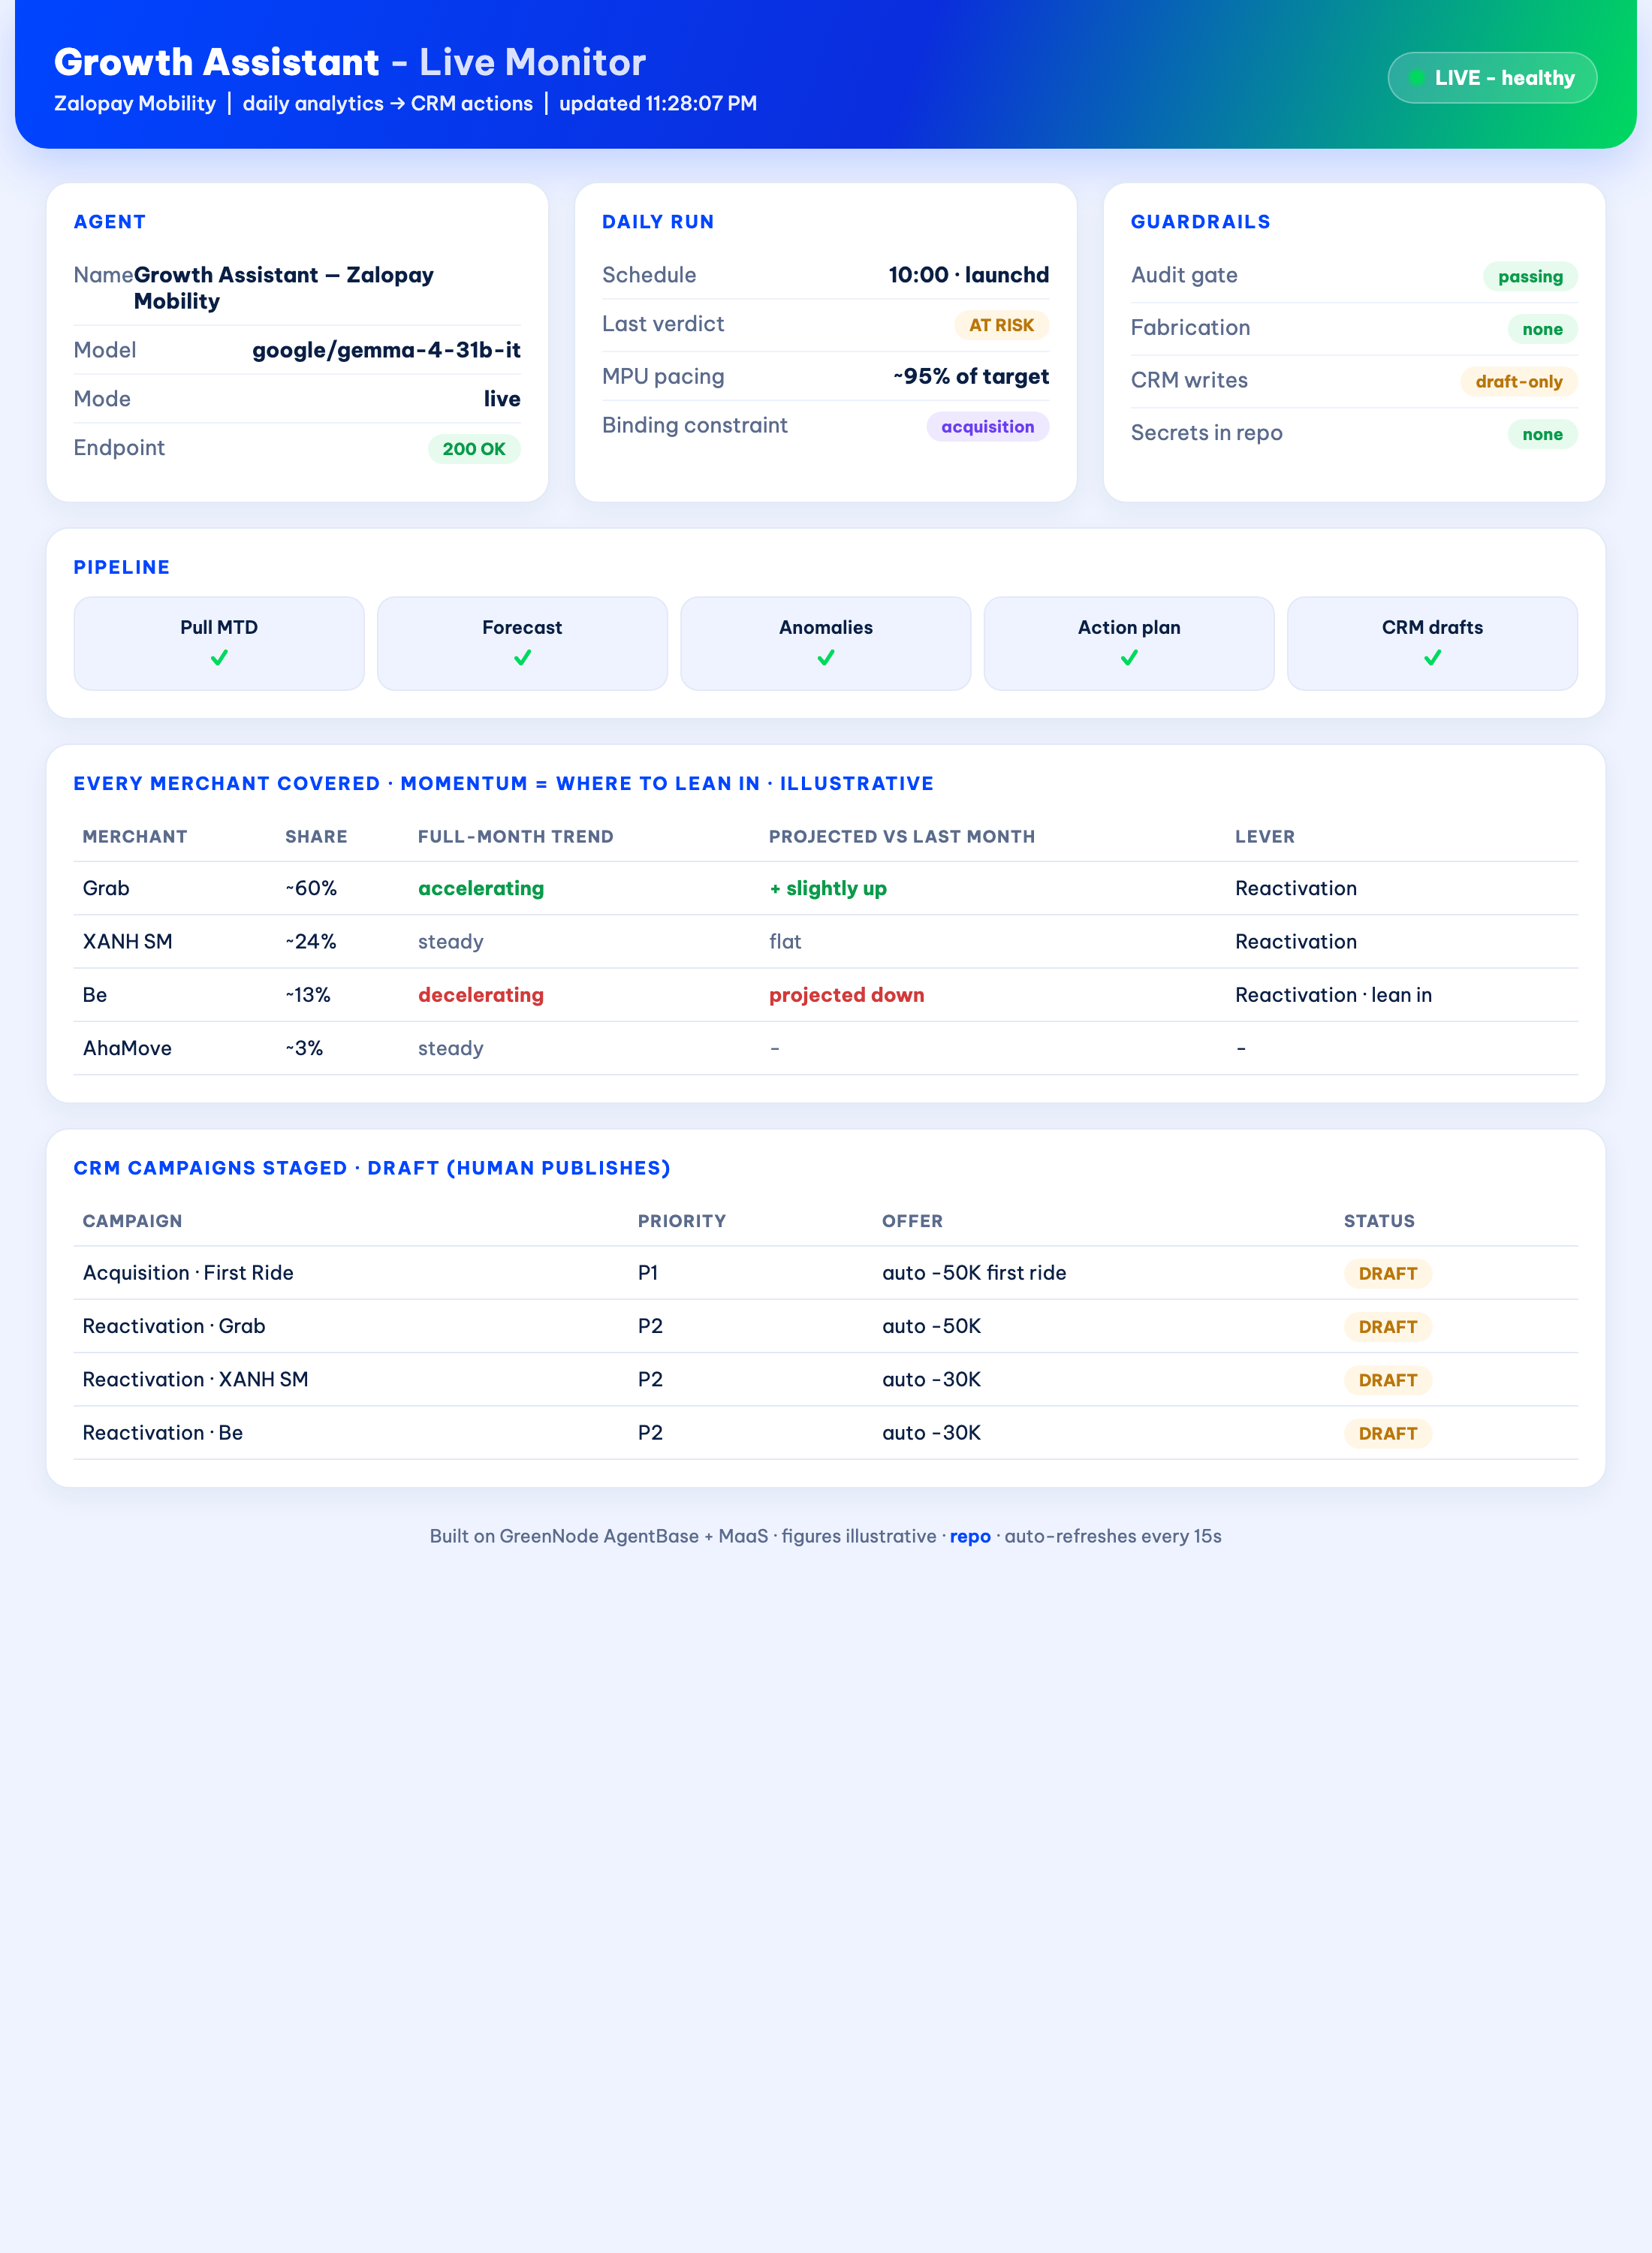
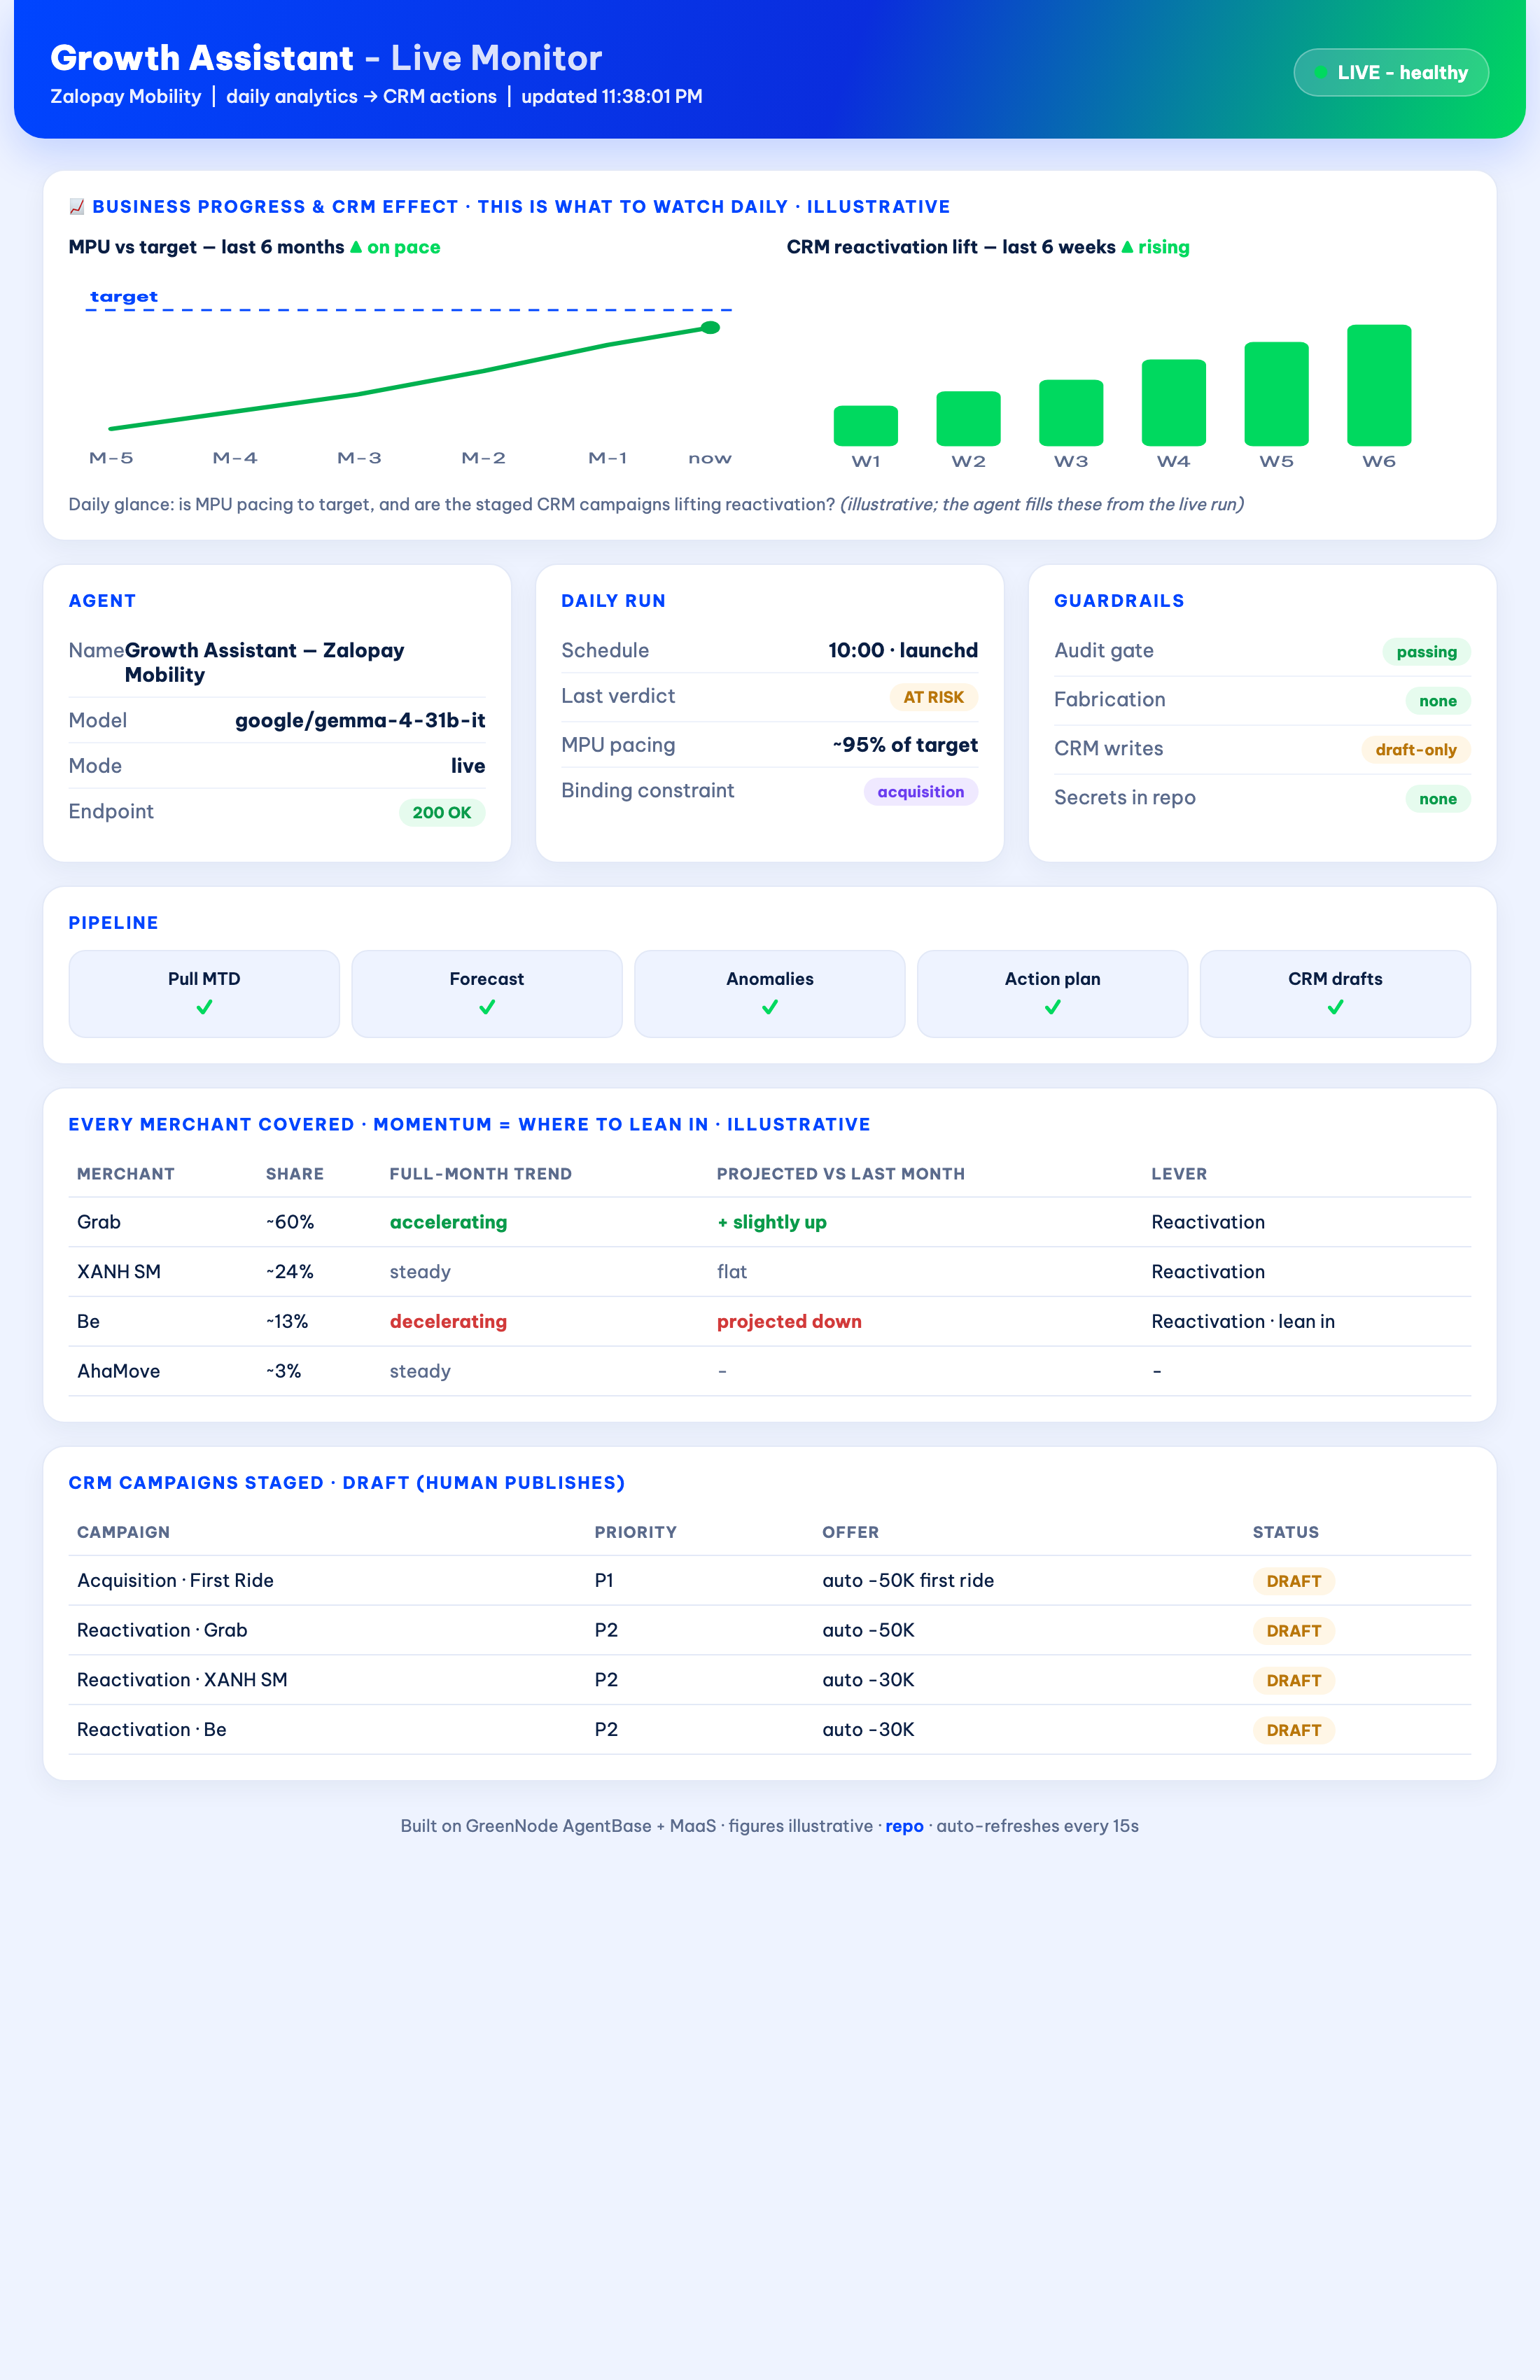
feat: dashboard progress charts first (MPU-vs-target + CRM lift) + dashboard link in sequence
- Dashboard now leads with daily progress-over-time charts (MPU vs target line, CRM
  reactivation lift bars — illustrative) so the owner tracks business + CRM effect at a glance.
- README sequence diagram + a link line now point to the live /dashboard.
- Repo homepage repointed to /dashboard. Deployed v7, /dashboard 200.

Changed region(s): [[0.0, 0.0, 0.9891, 0.744], [0.4018, 0.527, 0.4327, 0.558]]

diff --git a/app.py b/app.py
@@ -78,6 +78,28 @@ _DASHBOARD_HTML = """<!doctype html><html lang="en"><head><meta charset="utf-8">
    <div class="pill"><span id="dot" class="dot"></span><span id="pill">checking...</span></div>
  </div></div>
  <div class="grid">
+   <div class="card full"><h3>&#128200; Business progress &amp; CRM effect &middot; this is what to watch daily &middot; illustrative</h3>
+     <div style="display:flex;gap:24px;flex-wrap:wrap">
+       <div style="flex:1;min-width:300px">
+         <div class="mut" style="font-size:13px;font-weight:700;margin-bottom:6px;color:var(--navy)">MPU vs target &mdash; last 6 months <span style="color:var(--green)">&#9650; on pace</span></div>
+         <svg viewBox="0 0 320 145" width="100%" height="150" preserveAspectRatio="none">
+           <line x1="8" y1="30" x2="312" y2="30" stroke="#0045FF" stroke-dasharray="5 4" stroke-width="1.5"/>
+           <text x="10" y="24" fill="#0045FF" font-size="10" font-weight="700">target</text>
+           <polyline fill="none" stroke="#00B14F" stroke-width="3" stroke-linecap="round" stroke-linejoin="round" points="20,112 78,100 136,88 194,72 252,54 300,42"/>
+           <circle cx="300" cy="42" r="4.5" fill="#00B14F"/>
+           <g fill="#5b6b8c" font-size="10" text-anchor="middle"><text x="20" y="136">M-5</text><text x="78" y="136">M-4</text><text x="136" y="136">M-3</text><text x="194" y="136">M-2</text><text x="252" y="136">M-1</text><text x="300" y="136">now</text></g>
+         </svg>
+       </div>
+       <div style="flex:1;min-width:300px">
+         <div class="mut" style="font-size:13px;font-weight:700;margin-bottom:6px;color:var(--navy)">CRM reactivation lift &mdash; last 6 weeks <span style="color:var(--green)">&#9650; rising</span></div>
+         <svg viewBox="0 0 320 145" width="100%" height="150" preserveAspectRatio="none">
+           <g fill="#00D95F"><rect x="22" y="96" width="30" height="28" rx="4"/><rect x="70" y="86" width="30" height="38" rx="4"/><rect x="118" y="78" width="30" height="46" rx="4"/><rect x="166" y="64" width="30" height="60" rx="4"/><rect x="214" y="52" width="30" height="72" rx="4"/><rect x="262" y="40" width="30" height="84" rx="4"/></g>
+           <g fill="#5b6b8c" font-size="10" text-anchor="middle"><text x="37" y="138">W1</text><text x="85" y="138">W2</text><text x="133" y="138">W3</text><text x="181" y="138">W4</text><text x="229" y="138">W5</text><text x="277" y="138">W6</text></g>
+         </svg>
+       </div>
+     </div>
+     <div class="mut" style="font-size:12px;margin-top:8px">Daily glance: is MPU pacing to target, and are the staged CRM campaigns lifting reactivation? <i>(illustrative; the agent fills these from the live run)</i></div>
+   </div>
    <div class="card"><h3>Agent</h3>
      <div class="kv"><span class="mut">Name</span><b id="agent">...</b></div>
      <div class="kv"><span class="mut">Model</span><b id="model">...</b></div>

diff --git a/README.md b/README.md
@@ -56,7 +56,10 @@ sequenceDiagram
   A-->>M: embedded content (title · body · deeplinks)
   M->>C: review & publish ✅
   Note over M,C: The agent proposes — the human always approves.
+  Note over A,CF: 📺 Also live at /dashboard — progress charts + CRM effect, tracked daily
 ```
+
+▶️ **Live monitoring dashboard:** [open `/dashboard`](https://endpoint-4718fb93-6ff0-48fb-8723-f999e547970a.agentbase-runtime.aiplatform.vngcloud.vn/dashboard) — daily MPU-vs-target + CRM-reactivation-lift charts, agent health, and staged campaigns.
 
 ## 🎥 See it in action
 